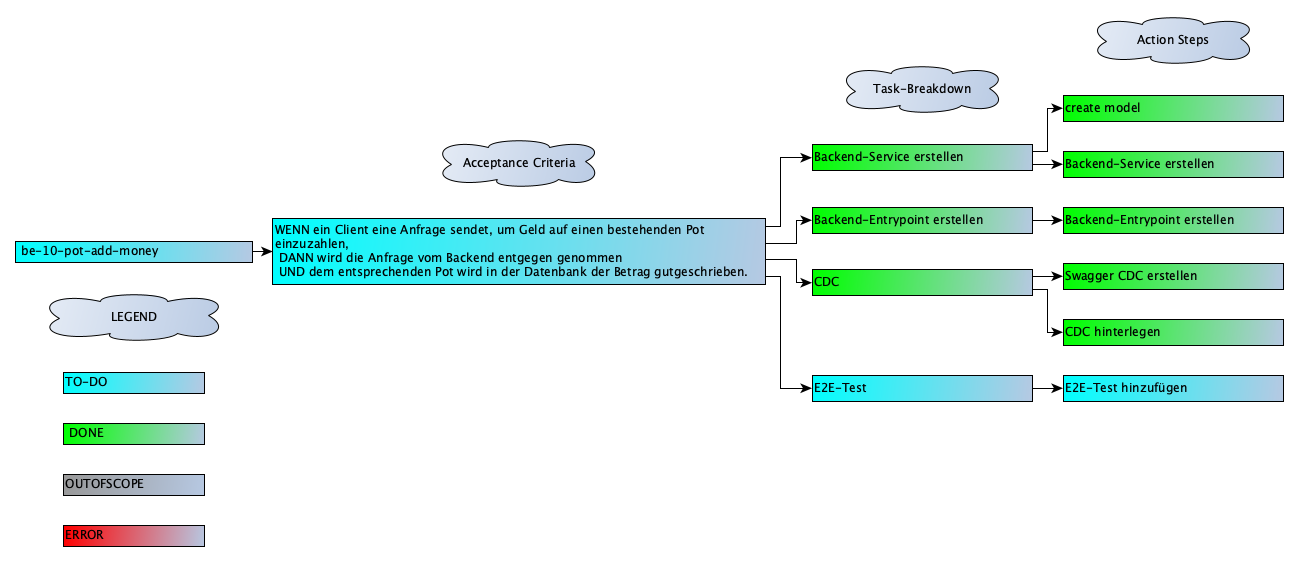
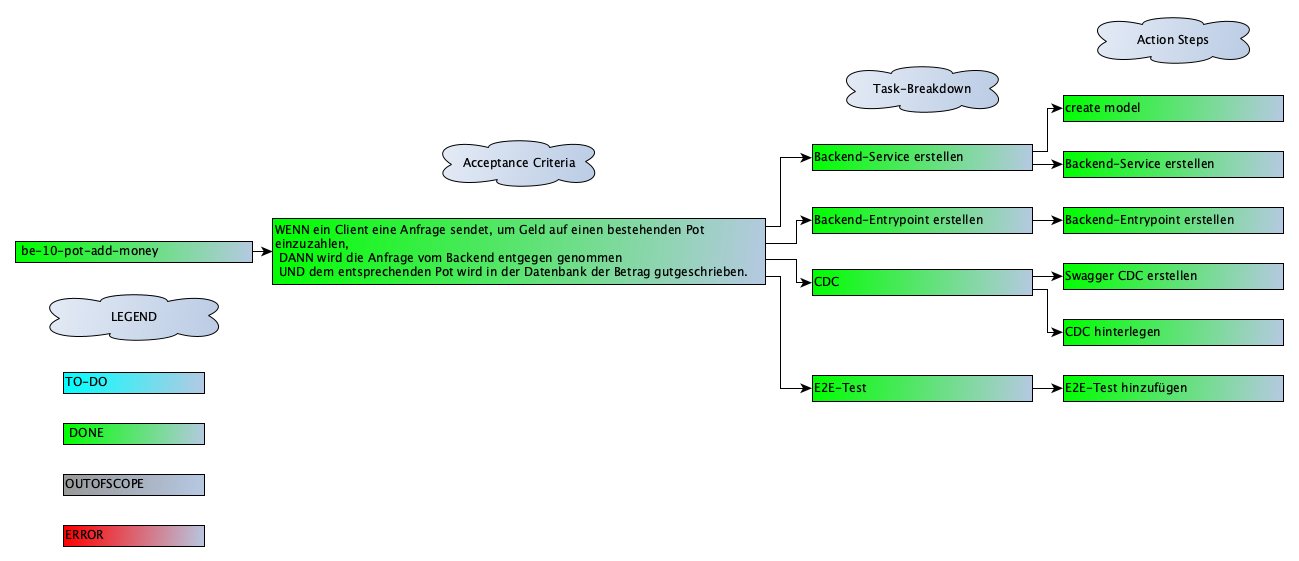
be-10 add e2e-tests

Changed region(s): [[0.0, 0.3636, 0.5851, 0.5152], [0.6159, 0.6667, 0.9854, 0.7273]]

diff --git a/backend/test/app.e2e-spec.ts b/backend/test/app.e2e-spec.ts
@@ -3,6 +3,8 @@ import { INestApplication } from '@nestjs/common';
 import * as request from 'supertest';
 import { AppModule } from '../src/app.module';
 import { APICategoryDTO } from '../src/model/apis/APICategoryDTO';
+import { APIPotAdditionDTO } from '../src/model/apis/APIPotAdditionDTO';
+import { APIPotNameDTO } from '../src/model/apis/APIPotNameDTO';
 
 describe('AppController (e2e)', () => {
   let app: INestApplication;
@@ -499,6 +501,31 @@ describe('AppController (e2e)', () => {
       .put('/pots/editPot')
       .send(editedPot)
       .expect(200)
+      .expect({});
+  });
+
+  it('/pots/addMoneyToPot (PUT)', async () => {
+    const potAddition: APIPotAdditionDTO = {
+      potName: 'NewMove',
+      amountToAdd: 100000,
+    };
+
+    return request(app.getHttpServer())
+      .put('/pots/addMoneyToPot')
+      .send(potAddition)
+      .expect(200)
+      .expect({});
+  });
+
+  it('/pots/deletePot (DELETE)', async () => {
+    const potNameToDelete: APIPotNameDTO = {
+      potName: 'NewMove',
+    };
+
+    return request(app.getHttpServer())
+      .delete('/pots/deletePot')
+      .send(potNameToDelete)
+      .expect(204)
       .expect({});
   });
 

diff --git a/backend/test/app.e2e-spec-local.ts b/backend/test/app.e2e-spec-local.ts
@@ -4,6 +4,7 @@ import * as request from 'supertest';
 import { AppModule } from '../src/app.module';
 import { APICategoryDTO } from '../src/model/apis/APICategoryDTO';
 import { APIPotNameDTO } from '../src/model/apis/APIPotNameDTO';
+import { APIPotAdditionDTO } from '../src/model/apis/APIPotAdditionDTO';
 
 describe('AppController (e2e)', () => {
   let app: INestApplication;
@@ -499,6 +500,19 @@ describe('AppController (e2e)', () => {
     return request(app.getHttpServer())
       .put('/pots/editPot')
       .send(editedPot)
+      .expect(200)
+      .expect({});
+  });
+
+  it('/pots/addMoneyToPot (PUT)', async () => {
+    const potAddition: APIPotAdditionDTO = {
+      potName: 'NewMove',
+      amountToAdd: 100000,
+    };
+
+    return request(app.getHttpServer())
+      .put('/pots/addMoneyToPot')
+      .send(potAddition)
       .expect(200)
       .expect({});
   });
